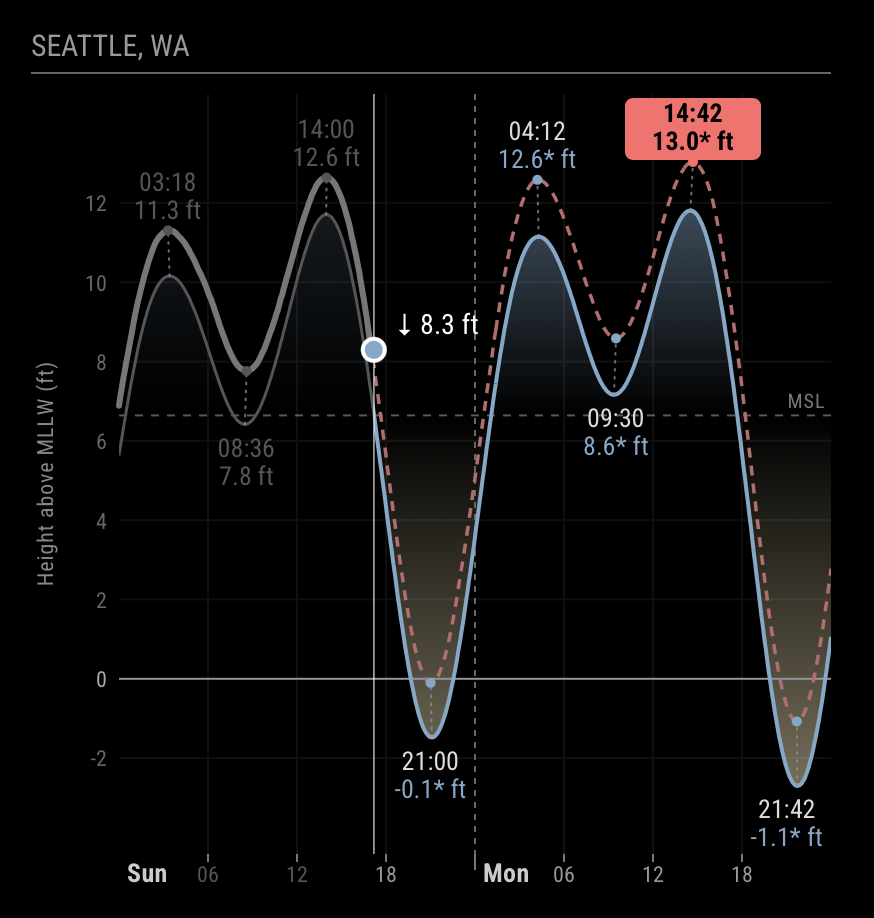
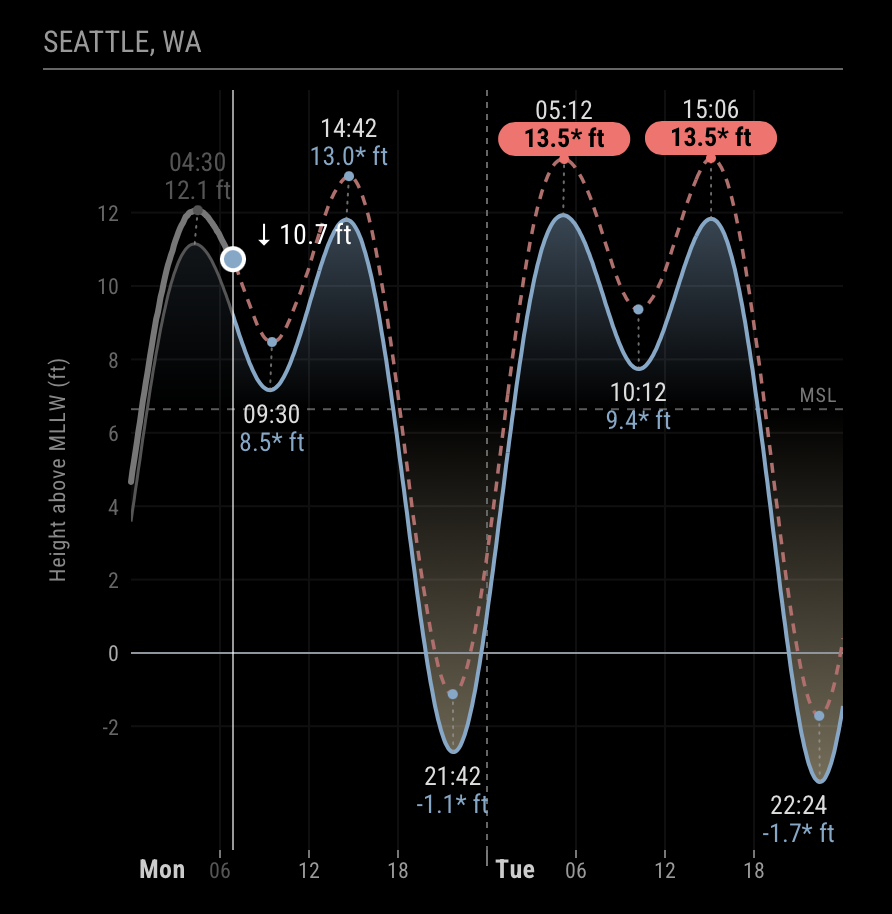
Show extreme tide heights on a pill instead of boxing the whole label
The badge now sits behind the height only, as a pill; the time stays a
normal label. Coming extremes get a solid red/purple pill with black bold
text; past ones an outline with the height in the badge color. New
screenshot.

diff --git a/tests/chartSvg.test.js b/tests/chartSvg.test.js
@@ -154,6 +154,15 @@ test("extremes: badges only for highs above / lows below the range (strictly)", 
 	assert.equal(count(svg, /class="tide-badge tide-badge-low"/g), 1);
 	assert.match(svg, /class="tide-label tide-label-high tide-extreme tide-extreme-high"[^>]*><tspan[^>]*>06:24</);
 	assert.match(svg, /class="tide-point tide-point-low tide-extreme tide-extreme-low"/);
+
+	// The pill sits behind the height line only, sized to the height text ("11.9 ft": 7 characters).
+	const pill = svg.match(/class="tide-badge tide-badge-high"[^>]*x="([\d.-]+)" y="([\d.-]+)" width="([\d.]+)" height="17" rx="8.5"/);
+	assert.ok(pill);
+	assert.equal(Number(pill[3]), 7 * 7 + 10);
+	const label = svg.match(/class="tide-label tide-label-high tide-extreme tide-extreme-high"[^>]*><tspan class="tide-label-time" x="([\d.-]+)" y="([\d.-]+)">[^<]*<\/tspan><tspan class="tide-label-height" x="[\d.-]+" y="([\d.-]+)">11\.9 ft</);
+	assert.ok(label);
+	assert.ok(Math.abs(Number(pill[2]) + 12.5 - Number(label[3])) < 0.01);
+	assert.ok(Math.abs(Number(pill[1]) + Number(pill[3]) / 2 - Number(label[1])) < 0.01);
 });
 
 // --- X-axis -----------------------------------------------------------------

diff --git a/lib/chartSvg.js b/lib/chartSvg.js
@@ -149,9 +149,9 @@
 		}
 		out += `<circle class="tide-point tide-point-${kind}${extremeClass}"${timed} cx="${n(x)}" cy="${n(y)}" r="2.5"/>`;
 		if (extreme) {
-			// Badge behind the label; width estimated from the text (13px bold condensed ≈ 7px per character).
-			const w = Math.max(time.length, height.length) * 7 + 12;
-			out += `<rect class="tide-badge tide-badge-${extreme}"${timed} x="${n(Number(labelX) - w / 2)}" y="${n(line1 - 12)}" width="${n(w)}" height="${n(line2 - line1 + 17)}" rx="4"/>`;
+			// Pill behind the height only; width estimated from the text (13px bold condensed ≈ 7px per character).
+			const w = height.length * 7 + 10;
+			out += `<rect class="tide-badge tide-badge-${extreme}"${timed} x="${n(Number(labelX) - w / 2)}" y="${n(line2 - 12.5)}" width="${n(w)}" height="17" rx="8.5"/>`;
 		}
 		out += `<text class="tide-label tide-label-${kind}${extremeClass}"${timed} text-anchor="middle">`
 			+ `<tspan class="tide-label-time" x="${labelX}" y="${n(line1)}">${time}</tspan>`

diff --git a/MMM-TideChartSVG.css b/MMM-TideChartSVG.css
@@ -122,7 +122,7 @@
   fill: #555;
 }
 
-/* Extreme tides: label on a solid badge (red high, purple low); an outline once in the past */
+/* Extreme tides: height on a solid pill (red high, purple low); an outline once in the past. The time stays a normal label. */
 .MMM-TideChartSVG .tide-badge-high {
   fill: #ff6b6b;
 }
@@ -131,7 +131,7 @@
   fill: #c77dff;
 }
 
-.MMM-TideChartSVG .tide-label.tide-extreme tspan {
+.MMM-TideChartSVG .tide-label.tide-extreme .tide-label-height {
   fill: #000;
   font-weight: 700;
 }
@@ -162,12 +162,12 @@
   stroke: #c77dff;
 }
 
-.MMM-TideChartSVG .tide-label.tide-extreme-high.tide-past tspan {
+.MMM-TideChartSVG .tide-label.tide-extreme-high.tide-past .tide-label-height {
   fill: #ff6b6b;
   opacity: 0.6;
 }
 
-.MMM-TideChartSVG .tide-label.tide-extreme-low.tide-past tspan {
+.MMM-TideChartSVG .tide-label.tide-extreme-low.tide-past .tide-label-height {
   fill: #c77dff;
   opacity: 0.6;
 }

diff --git a/README.md b/README.md
@@ -38,7 +38,7 @@ hardware such as a Raspberry Pi 3B+.
   dashed line marks mean sea level and the shading shows how far the tide is above it (blue) or
   below it (sand), fading toward the line.
 - **Extreme tides** (optional, `extremeRange`): highs above or lows below your range get their
-  label on a red (high) or purple (low) badge.
+  height on a red (high) or purple (low) pill; once in the past, the pill becomes an outline.
 - **The station's name** as the module's header (from NOAA), unless you set your own `header`.
   An asterisk after the header (e.g. "Eagle Harbor, Bainbridge Island, WA\*") means the curve
   is modeled from another station; see [Subordinate stations](#subordinate-stations).
@@ -184,7 +184,7 @@ Add the module to `config/config.js`:
 | `datum` | `"MLLW"` | NOAA height baseline ([datum options](https://tidesandcurrents.noaa.gov/datum_options.html)). MLLW (mean lower low water) is the usual baseline for tide charts. Subordinate stations support only `"MLLW"`. |
 | `meanSeaLevel` | none | Height of mean sea level, in the chart's units and datum (e.g. `6.78` ft above MLLW). Adds the dashed MSL line and shades above/below it. Look it up on the station's NOAA "Datums" page: MSL minus your datum (e.g. MSL − MLLW). Subordinate stations have no datums; use the reference station's MSL, optionally multiplied by the station's height ratio (e.g. Seattle's 6.64 ft gives about 6.7 ft for Eagle Harbor). |
 | `gridStep` | `2` ft / `0.5` m | Height between grid lines, in the chart's units. |
-| `extremeRange` | none | `[low, high]`, e.g. `[-3.0, 13.0]`. Lows below `low` and highs above `high` get a colored badge. |
+| `extremeRange` | none | `[low, high]`, e.g. `[-3.0, 13.0]`. Lows below `low` and highs above `high` get their height on a colored pill. |
 | `width` | `400` | Chart width in pixels. |
 | `height` | `400` | Chart height in pixels. |
 | `overlayUpdateInterval` | `60000` | How often the current-time marker moves, in milliseconds. |

diff --git a/CLAUDE.md b/CLAUDE.md
@@ -297,8 +297,9 @@ Other station reference data on the same API (not used by the module):
   end of the window. Highs/lows not yet observed show the ETSS curve's extreme with `*` right
   after the number (`12.4* ft`), with the same connector and label placement. The header's
   `*` (modeled curve) can appear too; accepted.
-- **Extreme tides:** the label sits on a badge, red for highs and purple for lows; once in
-  the past, the badge becomes an outline. Badge width is estimated from the text length.
+- **Extreme tides:** the height sits on a pill-shaped badge (black bold text), red for highs
+  and purple for lows; the time stays a normal label. Once in the past, the pill becomes an
+  outline and the height takes its color. Pill width is estimated from the height's length.
 - **X-axis:** one row; the day name starts each day, then `06`, `12`, `18` under short
   ticks; a taller tick and a dashed divider at midnight.
 - **Overlay:** a vertical line at the current time, a blue dot with a white outline, and the
